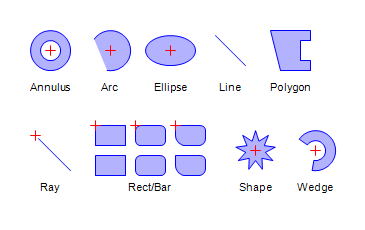
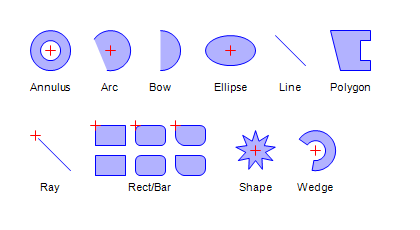
Bow glyph

diff --git a/pero/drawing/path.py b/pero/drawing/path.py
@@ -835,8 +835,8 @@ class Path(object):
     def bow_to(self, x, y, radius, large=False, clockwise=True, relative=False):
         """
         Adds a circular arc from the current point, using given radius and end
-        point coordinates. One of four existing solutions is chosen according to
-        the 'large' and 'clockwise' parameters.
+        point coordinates. One of the four existing solutions is chosen
+        according to the 'large' and 'clockwise' parameters.
         
         If the radius is too small for specified end points the theoretical
         minimum is used, which equals half of the end points distance.
@@ -852,11 +852,13 @@ class Path(object):
                 Radius of the arc.
             
             large: bool
-                Specifies which of the possible arcs will be drawn.
+                Specifies which of the possible arcs will be drawn according
+                to its length.
             
             clockwise: bool
-                Specifies the direction of drawing. If set to True, the arc
-                will be drawn in the clockwise direction.
+                Specifies which of the possible arcs will be drawn according to
+                drawing direction. If set to True the clockwise arc is drawn,
+                otherwise the anti-clockwise.
             
             relative: bool
                 If set to True given coordinates are considered as relative to
@@ -887,32 +889,32 @@ class Path(object):
         cos = numpy.cos(angle)
         
         # get origins
-        o = numpy.sqrt(radius ** 2 - dist ** 2)
-        o1x = x1 + dist * cos - o * sin
-        o1y = y1 + dist * sin + o * cos
-        o2x = x1 + dist * cos + o * sin
-        o2y = y1 + dist * sin - o * cos
+        c = numpy.sqrt(radius ** 2 - dist ** 2)
+        c1x = x1 + dist * cos - c * sin
+        c1y = y1 + dist * sin + c * cos
+        c2x = x1 + dist * cos + c * sin
+        c2y = y1 + dist * sin - c * cos
         
         # set circles
         if angle >= 0:
-            small = o1x, o1y
-            big = o2x, o2y
+            small = c1x, c1y
+            big = c2x, c2y
         else:
-            big = o2x, o2y
-            small = o1x, o1y
+            big = c2x, c2y
+            small = c1x, c1y
         
         # apply direction
         if not clockwise:
             small, big = big, small
         
         # select final circle
-        ox, oy = big if large else small
+        cx, cy = big if large else small
         
         # get end angle
-        end_angle = numpy.arctan2(y - oy, x - ox)
+        end_angle = numpy.arctan2(y - cy, x - cx)
         
         # add arc
-        self.arc_around(ox, oy, end_angle, clockwise=clockwise)
+        self.arc_around(cx, cy, end_angle, clockwise=clockwise)
         
         return self
     

diff --git a/pero/drawing/glyphs.py b/pero/drawing/glyphs.py
@@ -141,6 +141,75 @@ class Arc(Glyph):
         canvas.draw_arc(x, y, radius, start_angle, end_angle, clockwise)
 
 
+class Bow(Glyph):
+    """
+    Defines an arc-like glyph specified by radius and end-point coordinates.
+    One of the four existing solutions is chosen according to the 'large' and
+    'clockwise' parameters.
+    
+    Properties:
+        
+        x1: int, float, callable
+            Specifies the x-coordinate of the arc start.
+        
+        y1: int, float, callable
+            Specifies the y-coordinate of the arc start.
+        
+        x2: int, float, callable
+            Specifies the x-coordinate of the arc end.
+        
+        y2: int, float, callable
+            Specifies the y-coordinate of the arc end.
+        
+        radius: int, float, callable
+            Specifies the arc radius.
+        
+        large: bool
+            Specifies which of the possible arcs will be drawn according to
+            its length.
+        
+        clockwise: bool, callable
+            Specifies which of the possible arcs will be drawn according to
+            drawing direction. If set to True the clockwise arc is drawn,
+            otherwise the anti-clockwise.
+    """
+    
+    x1 = NumProperty(0)
+    y1 = NumProperty(0)
+    x2 = NumProperty(0)
+    y2 = NumProperty(0)
+    radius = NumProperty(0)
+    large = BoolProperty(False)
+    clockwise = BoolProperty(True)
+    
+    line = Include(LineProperties)
+    fill = Include(FillProperties)
+    
+    
+    def draw(self, canvas, source=UNDEF, **overrides):
+        """Uses given canvas to draw glyph."""
+        
+        # check if visible
+        if not self.is_visible(source, overrides):
+            return
+        
+        # get properties
+        x1 = self.get_property('x1', source, overrides)
+        y1 = self.get_property('y1', source, overrides)
+        x2 = self.get_property('x2', source, overrides)
+        y2 = self.get_property('y2', source, overrides)
+        radius = self.get_property('radius', source, overrides)
+        large = self.get_property('large', source, overrides)
+        clockwise = self.get_property('clockwise', source, overrides)
+        
+        # set pen and brush
+        canvas.set_pen_by(self, source=source, overrides=overrides)
+        canvas.set_brush_by(self, source=source, overrides=overrides)
+        
+        # draw
+        canvas.draw_bow(x1, y1, x2, y2, radius, large, clockwise)
+
+
 class Bar(Glyph):
     """
     Defines a bar glyph.

diff --git a/examples/drawing/draw_arc.py b/examples/drawing/draw_arc.py
@@ -13,40 +13,57 @@ class DrawTest(pero.Graphics):
         
         # clear canvas
         canvas.fill(pero.colors.White)
+        canvas.line_width = 4
         
         x = 70
         y = 70
         radius = 40
         
+        canvas.line_color = pero.colors.LightGrey
+        canvas.draw_circle(x, y, radius)
         canvas.line_color = pero.colors.Blue
         canvas.draw_arc(x, y, radius, pero.rads(0), pero.rads(90), True)
         
         x += 100
+        canvas.line_color = pero.colors.LightGrey
+        canvas.draw_circle(x, y, radius)
         canvas.line_color = pero.colors.Blue
         canvas.draw_arc(x, y, radius, pero.rads(0), pero.rads(90), False)
         
         x += 100
+        canvas.line_color = pero.colors.LightGrey
+        canvas.draw_circle(x, y, radius)
         canvas.line_color = pero.colors.Blue
         canvas.draw_arc(x, y, radius, pero.rads(90), pero.rads(0), True)
         
         x += 100
+        canvas.line_color = pero.colors.LightGrey
+        canvas.draw_circle(x, y, radius)
         canvas.line_color = pero.colors.Blue
         canvas.draw_arc(x, y, radius, pero.rads(90), pero.rads(0), False)
         
         x = 70
         y += 100
+        canvas.line_color = pero.colors.LightGrey
+        canvas.draw_circle(x, y, radius)
         canvas.line_color = pero.colors.Blue
         canvas.draw_arc(x, y, radius, pero.rads(-30), pero.rads(200), True)
         
         x += 100
+        canvas.line_color = pero.colors.LightGrey
+        canvas.draw_circle(x, y, radius)
         canvas.line_color = pero.colors.Blue
         canvas.draw_arc(x, y, radius, pero.rads(-30), pero.rads(200), False)
         
         x += 100
+        canvas.line_color = pero.colors.LightGrey
+        canvas.draw_circle(x, y, radius)
         canvas.line_color = pero.colors.Blue
         canvas.draw_arc(x, y, radius, pero.rads(200), pero.rads(-30), True)
         
         x += 100
+        canvas.line_color = pero.colors.LightGrey
+        canvas.draw_circle(x, y, radius)
         canvas.line_color = pero.colors.Blue
         canvas.draw_arc(x, y, radius, pero.rads(200), pero.rads(-30), False)
 

diff --git a/examples/drawing/draw_glyphs.py b/examples/drawing/draw_glyphs.py
@@ -45,7 +45,14 @@ class DrawTest(pero.Graphics):
         origin.draw(canvas, x=x, y=y)
         label.draw(canvas, x=x, y=y+30, text="Arc")
         
-        x += 60
+        x += 50
+        
+        # test bow
+        glyph = pero.Bow(line_width=line_width, line_color=line_color, fill_color=fill_color)
+        glyph.draw(canvas, x1=x, y1=y-20, x2=x, y2=y+20, large=False, clockwise=True)
+        label.draw(canvas, x=x, y=y+30, text="Bow")
+        
+        x += 70
         
         # test ellipse
         glyph = pero.Ellipse(line_width=line_width, line_color=line_color, fill_color=fill_color)
@@ -140,4 +147,4 @@ class DrawTest(pero.Graphics):
 
 # run test
 if __name__ == '__main__':
-    pero.debug(DrawTest(), 'show', "Glyphs", 365, 230)
+    pero.debug(DrawTest(), 'png', "Glyphs", 420, 230, backend=pero.WX)

diff --git a/pero/drawing/__init__.py b/pero/drawing/__init__.py
@@ -18,7 +18,7 @@ from .layout import Layout, Row, Column, Cell
 from .utils import *
 
 # import glyphs
-from .glyphs import Glyph, Annulus, Arc, Bar, Ellipse, Line, Polygon, Ray, Rect, Shape, Text, Textbox, Wedge
+from .glyphs import Glyph, Annulus, Arc, Bar, Bow, Ellipse, Line, Polygon, Ray, Rect, Shape, Text, Textbox, Wedge
 from .markers import Marker, Asterisk, Circle, Cross, Diamond, Plus, Triangle, Square, Symbol
 from .arrows import Arrow, ArcArrow, BowArrow, ConnectorArrow, CurveArrow, LineArrow, PathArrow, RayArrow
 from .heads import Head, CircleHead, LineHead, NormalHead, OpenHead, SymbolHead, VeeHead
